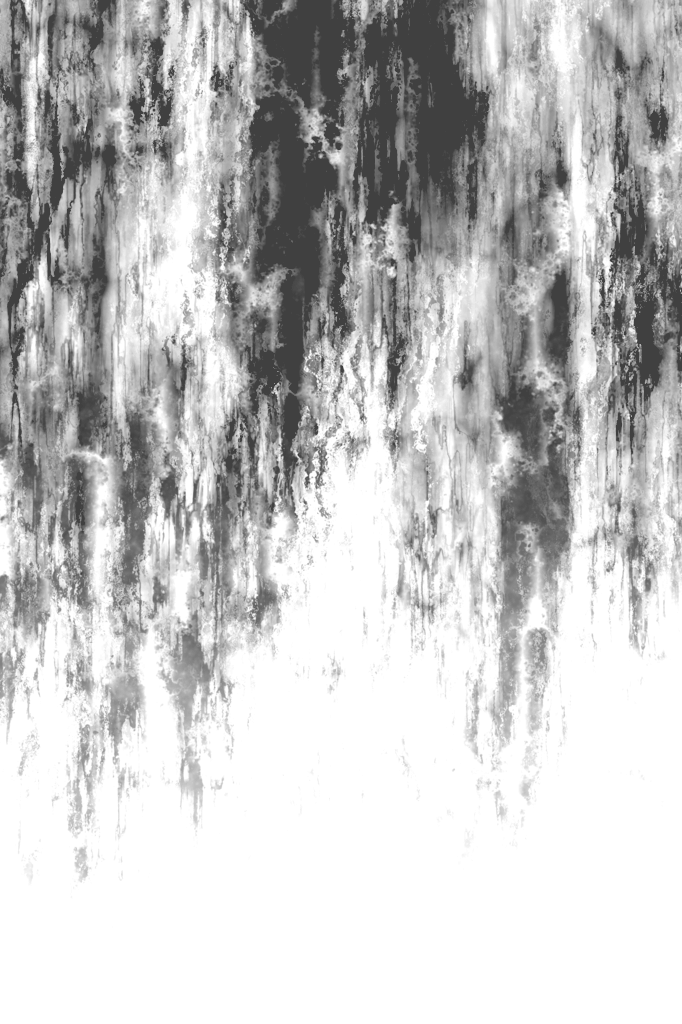
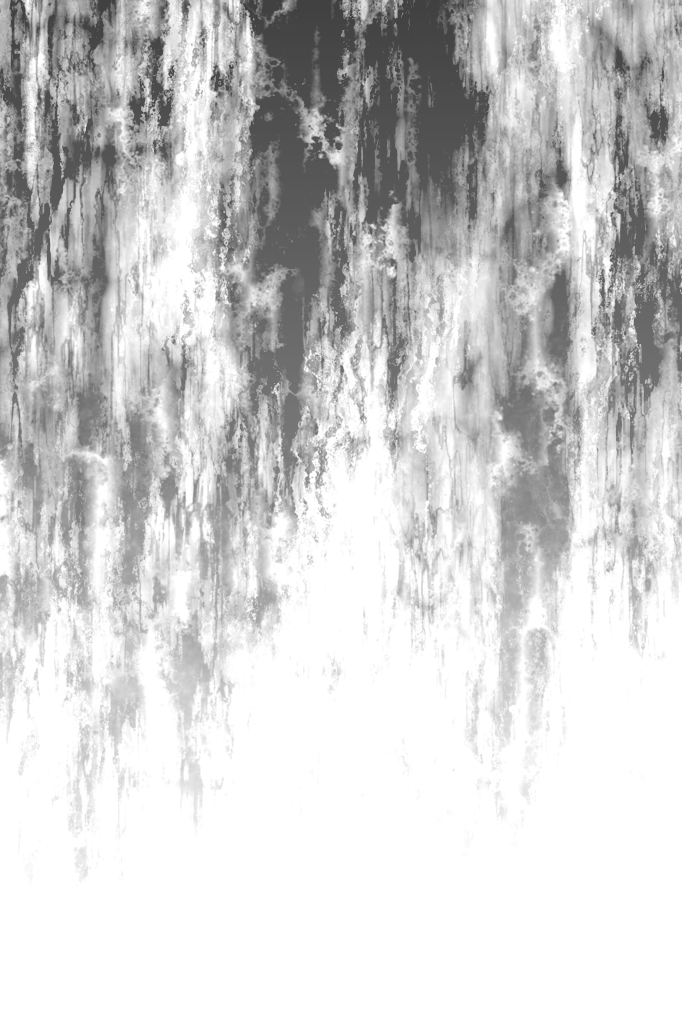
The brick's third try: the scan off the walls, so our own Flemish brick shows
The second fresh review of 2.4 failed it on a brick that repeated every
metre up the near corner. The cause: Poly Haven's brick_4 and brick_wall_001
scans, 1.05 m a copy and marked "always" in play (ps5-corner.json), had been
covering the street's drawn brick since September, so the Flemish bond and
each house's stretch of it never showed. Both are off in play now; the scans
stay for the corner shots. The research's method is our own bond, a scan
only for fine detail (BRICK-2026-10-04.md).

With it: headers with a plum lean, the burnt ends of the sheet's near wall;
Mickey's front takes the red stock look, which the Hook sheet decides for the
near right of the frame; three sill streaks drawn from the leak scan's three
thirds, each strongest under the sill and fading down, one picked per window,
lighter and varied; the splash band and the chimney soot stronger. The decal
folder goes on the size guard's list of places the build reads from git.

Changed region(s): [[0.0, 0.1875, 0.6158, 0.8438], [0.585, 0.1875, 1.0, 0.7188], [0.6466, 0.1875, 0.7082, 0.2188]]

diff --git a/tools/street_wear.py b/tools/street_wear.py
@@ -48,6 +48,7 @@ END_WALL_T = 0.34           # a row's end wall, one and a half bricks (terrace-f
 DAMP_M = 1.0               # rising damp: the lowest metre of a solid wall darker and patchy (2 October)
 ROAD_HALF_M, ROAD_CROSSFALL, FOOTWAY_ABOVE_CROWN_M = 3.0, 0.025, 0.10   # terrace-front.py ROAD_HALF_M, ROAD_CROSSFALL, THRESHOLD_ABOVE_CROWN_M
 SPLASH_M = 0.60             # the splash-back band at the foot of a wall (2 October: 0.30 and faint did not show in the stage-1 frame)
+STREAK_PICTURES = ("ours/wear_streak", "ours/wear_streak_b", "ours/wear_streak_c")
 PICTURE = {"damp": "ours/wear_damp", "wash": "ours/wear_wash", "splash": "ours/wear_splash", "streak": "ours/wear_streak",
            "algae": "ours/wear_algae", "soot": "ours/wear_soot",
            "oil": "ours/wear_oil", "puddle": "ours/puddle_01"}   # 2 October: the packs' real masks (tools/make_wear_masks.py), not their preview renders
@@ -120,8 +121,9 @@ def build(pieces):
         zf, facing = face_of(b)
         h = house[b["name"]]
         bottom = b["y_m"] - b["sy_m"] / 2.0
+        # (4 October: at 0.5 to 0.9 the review measured the foot lighter than the wall above.)
         decals.append(wall_decal("splash", b["x_m"], bottom + SPLASH_M / 2.0, zf, facing, b["sx_m"], SPLASH_M,
-                                 0.5 + 0.4 * h["wear"], b["name"]))
+                                 0.8 + 0.2 * h["wear"], b["name"]))
         # WEAR THAT READS AT A GLANCE ON EVERY FACADE (Jafar, 2 October, Friday's page:
         # "wear that reads at a glance across every facade, not faint marks"): the wash
         # the gables carry, down every bay's front from its top (rain off the eaves and
@@ -143,7 +145,7 @@ def build(pieces):
         gx = g["x_m"] - g["sx_m"] / 2.0 - END_WALL_T - STANDOFF_M
         bottom = g["y_m"] - g["sy_m"] / 2.0
         decals.append(gable_decal("splash", gx, bottom + SPLASH_M / 2.0, g["z_m"], g["sz_m"], SPLASH_M,
-                                  0.5 + 0.4 * hg["wear"], g["name"]))
+                                  0.8 + 0.2 * hg["wear"], g["name"]))
         # THE GABLE'S WASH FLUSH WITH ITS CORNERS AND DOWN TO ITS FOOT (4 October: at 95% by 90%
         # its edges stood as a straight soot line by the corner and a clean band above the foot;
         # wider than the face it would smear round the corner onto the front).
@@ -166,8 +168,12 @@ def build(pieces):
             # FROM THE SILL'S OWN EDGE (4 October, the first fresh review of 2.4: the streaks began
             # well below the sills): the picture fades in over its top fifth, so it starts a quarter
             # of its length up, on the stone sill, which takes no marks.
-            decals.append(wall_decal("streak", p["x_m"] + 0.08 * (rnd(s, "dx") - 0.5), top - L / 2.0 + 0.25 * L, zf, facing,
-                                     p["sx_m"] * (0.8 + 0.3 * rnd(s, "w")), L, 0.65 + 0.35 * h["wear"], b["name"]))
+            # ONE OF THREE STREAKS a window, lighter and each its own (4 October: "one identical
+            # decal under every window ... inky").
+            d = wall_decal("streak", p["x_m"] + 0.08 * (rnd(s, "dx") - 0.5), top - L / 2.0 + 0.25 * L, zf, facing,
+                           p["sx_m"] * (0.8 + 0.3 * rnd(s, "w")), L, 0.35 + 0.25 * rnd(s, "st") + 0.15 * h["wear"], b["name"])
+            d["picture"] = STREAK_PICTURES[int(rnd(s, "pic") * 3) % 3]
+            decals.append(d)
         elif p["bom"] == "D5_downpipe" and p["name"].endswith("_shoe"):
             block = p["name"].split("_dp")[0]
             b = owner_bay(p["x_m"], block)
@@ -187,10 +193,10 @@ def build(pieces):
             facing = -1.0 if p["z_m"] > 0 else 1.0
             top = p["y_m"] + p["sy_m"] / 2.0
             decals.append(wall_decal("soot", p["x_m"], top - 0.6, zf, facing, p["sx_m"] * 1.05, 1.2,
-                                     0.6 + 0.3 * h["wear"], p["name"]))
+                                     0.85 + 0.15 * h["wear"], p["name"]))
             # AND ITS SOUTH FACE, the one the hook camera sees (4 October: "the chimneys are clean").
             decals.append(gable_decal("soot", p["x_m"] - p["sx_m"] / 2.0 - STANDOFF_M, top - 0.6, p["z_m"],
-                                      p["sz_m"], 1.2, 0.6 + 0.3 * h["wear"], p["name"]))
+                                      p["sz_m"], 1.2, 0.85 + 0.15 * h["wear"], p["name"]))
     # oil where cars stand: along both kerbs, a stain every few metres, by seed
     for side, z in (("east", 2.1), ("west", -2.1)):
         s = seed_of("oil_" + side)

diff --git a/tools/make_wear_masks.py b/tools/make_wear_masks.py
@@ -101,7 +101,13 @@ def stains(rng):
     leak = opacity_map("Leaking005")
     grime = opacity_map("SurfaceImperfections003")
     splat = opacity_map("SurfaceImperfections012")
-    out = {"wear_streak": leak[:, : leak.shape[1] // 3],            # narrow and tall, as under a sill
+    w3 = leak.shape[1] // 3
+    # THREE STREAKS, strongest under the sill and fading down (4 October, the brick's second fresh
+    # review: "one identical decal under every window ... darkest at the bottom"): the leak's three
+    # thirds, each ramped from full at its top; tools/street_wear.py picks one a window by seed.
+    out = {"wear_streak": ramp(leak[:, :w3], "top"),            # narrow and tall, as under a sill
+           "wear_streak_b": ramp(leak[:, w3:2 * w3], "top"),
+           "wear_streak_c": ramp(leak[:, 2 * w3:3 * w3], "top"),
            "wear_wash": np.maximum(leak, ramp(np.asarray(Image.fromarray((grime * 255).astype(np.uint8)).resize(
                (leak.shape[1], leak.shape[0]))).astype(float) / 255.0, "top") * 0.8),
            # softened (3 October: the splatter read as polka dots on the stallrisers)
@@ -186,7 +192,7 @@ def selftest():
     b = puddle(np.random.default_rng(19901002))
     check("seeded: the same mask each run", np.array_equal(a, b))
     st = stains(np.random.default_rng(19901003))
-    check("a stain picture for every wear kind but water", set(st) == {"wear_streak", "wear_wash", "wear_splash", "wear_soot", "wear_algae", "wear_oil", "wear_damp"})
+    check("a stain picture for every wear kind but water", set(st) == {"wear_streak", "wear_streak_b", "wear_streak_c", "wear_wash", "wear_splash", "wear_soot", "wear_algae", "wear_oil", "wear_damp"})
     check("no stain is empty or solid", all(0.03 < v.mean() < 0.9 for v in st.values()))
     check("the splash band is strongest at its foot", st["wear_splash"][-len(st["wear_splash"]) // 4:].mean() > st["wear_splash"][: len(st["wear_splash"]) // 4].mean())
     check("an oil stain stays clear of its decal's edge", st["wear_oil"][0, :].max() == 0 and st["wear_oil"][:, 0].max() == 0)

diff --git a/tools/art-recipes/terrace-front.py b/tools/art-recipes/terrace-front.py
@@ -7362,6 +7362,9 @@ HOUSE_SET_FACTOR = {0: (0.90, 0.90, 0.90), 1: (0.74, 0.74, 0.77), 2: (1.0, 0.97,
 #: street's bricks are: an orange-red stock, a purple-brown, a front sooted black-brown, one
 #: cleaned in the 1980s; and a value of its own over a third of the range.
 HOUSE_LOOKS = ((1.0, 0.84, 0.66), (0.80, 0.62, 0.66), (0.60, 0.56, 0.56), (1.0, 0.95, 0.86))
+#: A HOUSE WHOSE LOOK THE HOOK SHEET DECIDES (4 October): Mickey's front fills the near right of the
+#: proof frame, and the sheet's near wall is a warm red stock with burnt headers, not a sooted one.
+HOUSE_LOOK_FIXED = {"east_parade_bay0": 0}
 
 
 def _house_rows(root):
@@ -7384,7 +7387,7 @@ def _house_tint(block, pid, material, rows):
     import zlib
     bset, tint = rows[house]
     seed = zlib.crc32(house.encode("utf-8"))
-    f = HOUSE_LOOKS[(bset + seed) % len(HOUSE_LOOKS)]
+    f = HOUSE_LOOKS[HOUSE_LOOK_FIXED.get(house, (bset + seed) % len(HOUSE_LOOKS))]
     # ITS OWN VALUE, 0.78 to 1.0 by its seed, and a lean warm or cool from its tint; never
     # green or blue, which no brick is.
     lum = 0.78 + 0.22 * ((seed >> 8) % 1000) / 999.0

diff --git a/tools/props/make_street_surfaces.py b/tools/props/make_street_surfaces.py
@@ -181,6 +181,8 @@ def bond(n, tile_w, tile_h, unit_w, unit_h, joint):
 #: burnt ends of a clamp-fired brick do (an inference, not a measurement).
 HEADER_W_M = 0.1125
 HEADER_TONE = 0.72   # 4 October: 0.88 did not read at the camera's angle (the first fresh review)
+#: and a plum lean, the burnt ends the Hook sheet's near wall shows (the second fresh review).
+HEADER_HUE = (1.0, 0.84, 0.97)
 
 
 def flemish_bond(n, tile_w, tile_h, stretcher_w, header_w, unit_h, joint):
@@ -251,7 +253,7 @@ def brick(tf, name, salt, n=None, worn=True):
     stain = 1.0 + tf.BRICK_STAIN * (periodic_noise(n, 24, SEED + salt) * 2.0 - 1.0) * 0.6
     img = np.zeros((n, n, 3))
     for c in range(3):
-        face = tone * tf.BRICK_FACE_LIFT * tf.BRICK_FACE_HUE[c]
+        face = tone * tf.BRICK_FACE_LIFT * tf.BRICK_FACE_HUE[c] * np.where(hd, HEADER_HUE[c], 1.0)
         v = np.where(jm, tf.BRICK_JOINT_TONE, face)
         img[..., c] = base[c] * v * stain * wear
     r = np.where(jm, min(1.0, rough + 0.08), rough) * (0.96 + 0.08 * hash01(i, j % rows, salt + 7))

diff --git a/tools/git-size-guard.py b/tools/git-size-guard.py
@@ -41,6 +41,9 @@ GAME_INPUTS = {                        # prefix: cap a file, in bytes
     "ue-probe/Content/": 25_000_000,   # the Unreal content the build makes and cooks
     "production/fonts/": 5_000_000,    # the game's own typefaces
     "production/reference/": 5_000_000,  # the bar every visual is judged against (the Hook sheet)
+    # THE DECAL PICTURES (4 October): the street's stains and puddles, drawn by tools/make_wear_masks.py,
+    # packaged from git by tools/ue/stage_game_data.py (DIRS); missing from this list since 3 October.
+    "ledger/Assets/StreamingAssets/Decals/": 5_000_000,
 }
 BIG_KINDS = {
     # pictures and renders
